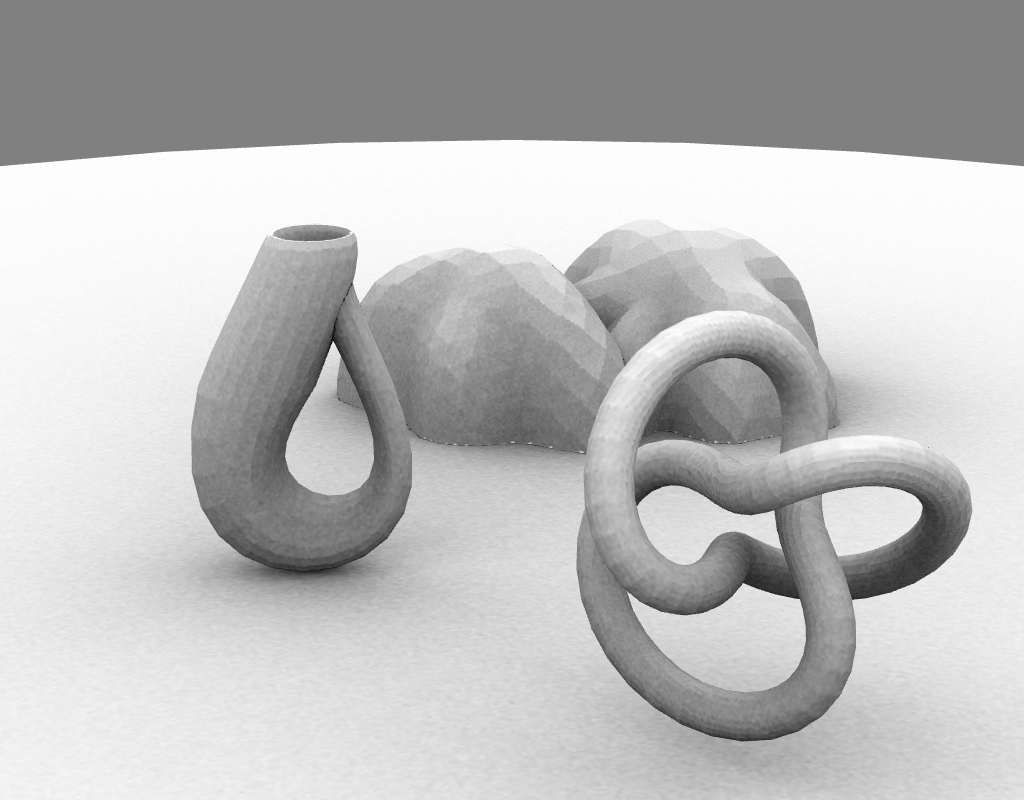
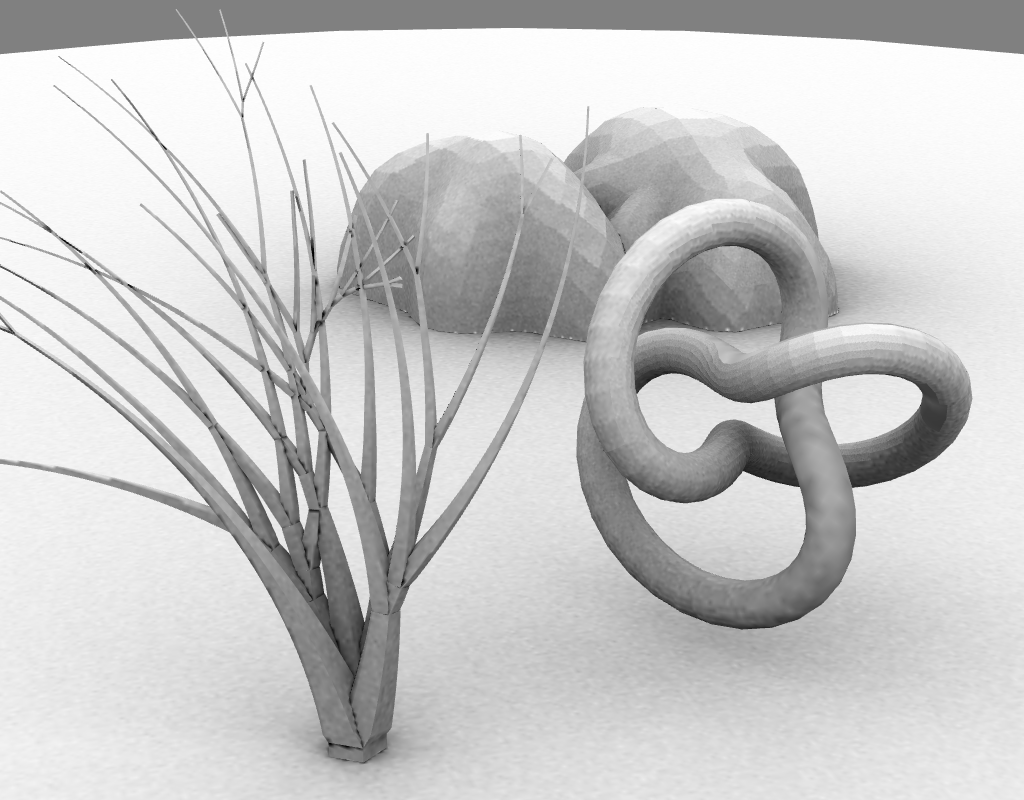
Tweaking the shapes post now that we have L-systems.

diff --git a/assets/css/modern.css b/assets/css/modern.css
@@ -41,6 +41,14 @@ ul.index {
     width: 70%;
 }
 
+div.triptych {
+    margin-top: 15px;
+}
+
+.triptych img {
+    width: 20%;
+}
+
 .nice-image {
     border: 0px solid #788;
 	border-radius:20px;

diff --git a/_posts/2016-01-10-shapes.md b/_posts/2016-01-10-shapes.md
@@ -1,19 +1,24 @@
 ---
 layout: modern
 tags : [graphics]
-description : "Single-file C library for generating simple triangle meshes from parametric surfaces and polyhedra."
+description : "Generate triangle meshes from parametric surfaces, polyhedra, and L-systems."
 thumbnail : Shapes-masked.png
 title : par_shapes.h
 ---
 {% include JB/setup %}
 
+<div class="triptych">
+<img src="{{ ASSET_PATH }}/figures/platonic800.png">
+<img src="{{ ASSET_PATH }}/figures/parametric800.png">
+<img src="{{ ASSET_PATH }}/figures/sphere800.png" >
+<img src="{{ ASSET_PATH }}/figures/misc800.png">
+</div>
+
 # [par_shapes.h](https://github.com/prideout/par/blob/master/par_shapes.h)
 
-When tinkering with a new graphics engine or renderer, I often want to test it out with simple shapes, and not worry about loading art assets.
+When tinkering with a new graphics API or raytracing kernel, I often want to use procedurally-generated shapes to avoid worrying about loading art assets.
 
-<img src="{{ ASSET_PATH }}/figures/platonic800.png" class="figure nice-image">
-
-So, I wrote a single-file C library that can generate simple shapes and perform basic operations on them, such as:
+Hence my motivation for authoring a single-file, zero-dependency, C99 library that can generate simple shapes and perform basic operations on them.  These operations include:
 
 - Applying affine transformations
 - Computing surface normals
@@ -44,7 +49,9 @@ par_shapes_free_mesh(m);
 
 ### Platonic Solids
 
-The scene was at the top of the page was constructed like so:
+<img src="{{ ASSET_PATH }}/figures/platonic800.png" class="figure nice-image">
+
+The above scene was constructed like so:
 
 {% highlight c %}
 dodecahedron = par_shapes_create_dodecahedron();
@@ -60,7 +67,7 @@ icosahedron = par_shapes_create_icosahedron();
 par_shapes_translate(icosahedron, -1, 0.8, 3.5);
 
 cube = par_shapes_create_cube();
-par_shapes_rotate(cube, PAR_PI / 5.0, (float yaxis[]){0, 1, 0});
+par_shapes_rotate(cube, PAR_PI / 5.0, (float[]){0, 1, 0});
 par_shapes_translate(cube, 1, 0, 0.5);
 par_shapes_scale(cube, 1.2, 1.2, 1.2);
 {% endhighlight %}
@@ -136,13 +143,29 @@ par_shapes_mesh* par_shapes_create_subdivided_sphere(int nsubdivisions);
 
 <img src="{{ ASSET_PATH }}/figures/sphere800.png" class="figure nice-image">
 
-In the above image, the left and center spheres are subdivided, while the right sphere is the parametric variant.
+In the above image, the left and center spheres are subdivided, and the right sphere is parametric.
 
 ### Miscellaneous
 
 The library also provides generator functions for various shapes beyond what was covered here; see the header file for more information.
 
 <img src="{{ ASSET_PATH }}/figures/misc800.png" class="figure nice-image">
+
+{% highlight c %}
+// Generate a rock shape that sits on the Y=0 plane, and sinks into it a bit.
+// This includes smooth normals but no texture coordinates.
+par_shapes_mesh* par_shapes_create_rock(int seed, int nsubdivisions);
+
+// Create trees or vegetation by executing a recursive turtle graphics program.
+// The program is a list of command-argument pairs.  See the unit test for
+// an example.
+par_shapes_mesh* par_shapes_create_lsystem(char const* program, int slices,
+    int maxdepth);
+
+// Tessellate a trefoil knot; same arguments as par_shapes_create_torus.
+par_shapes_mesh* par_shapes_create_trefoil_knot(int slices, int stacks,
+    float radius);
+{% endhighlight %}
 
 <hr>
 
